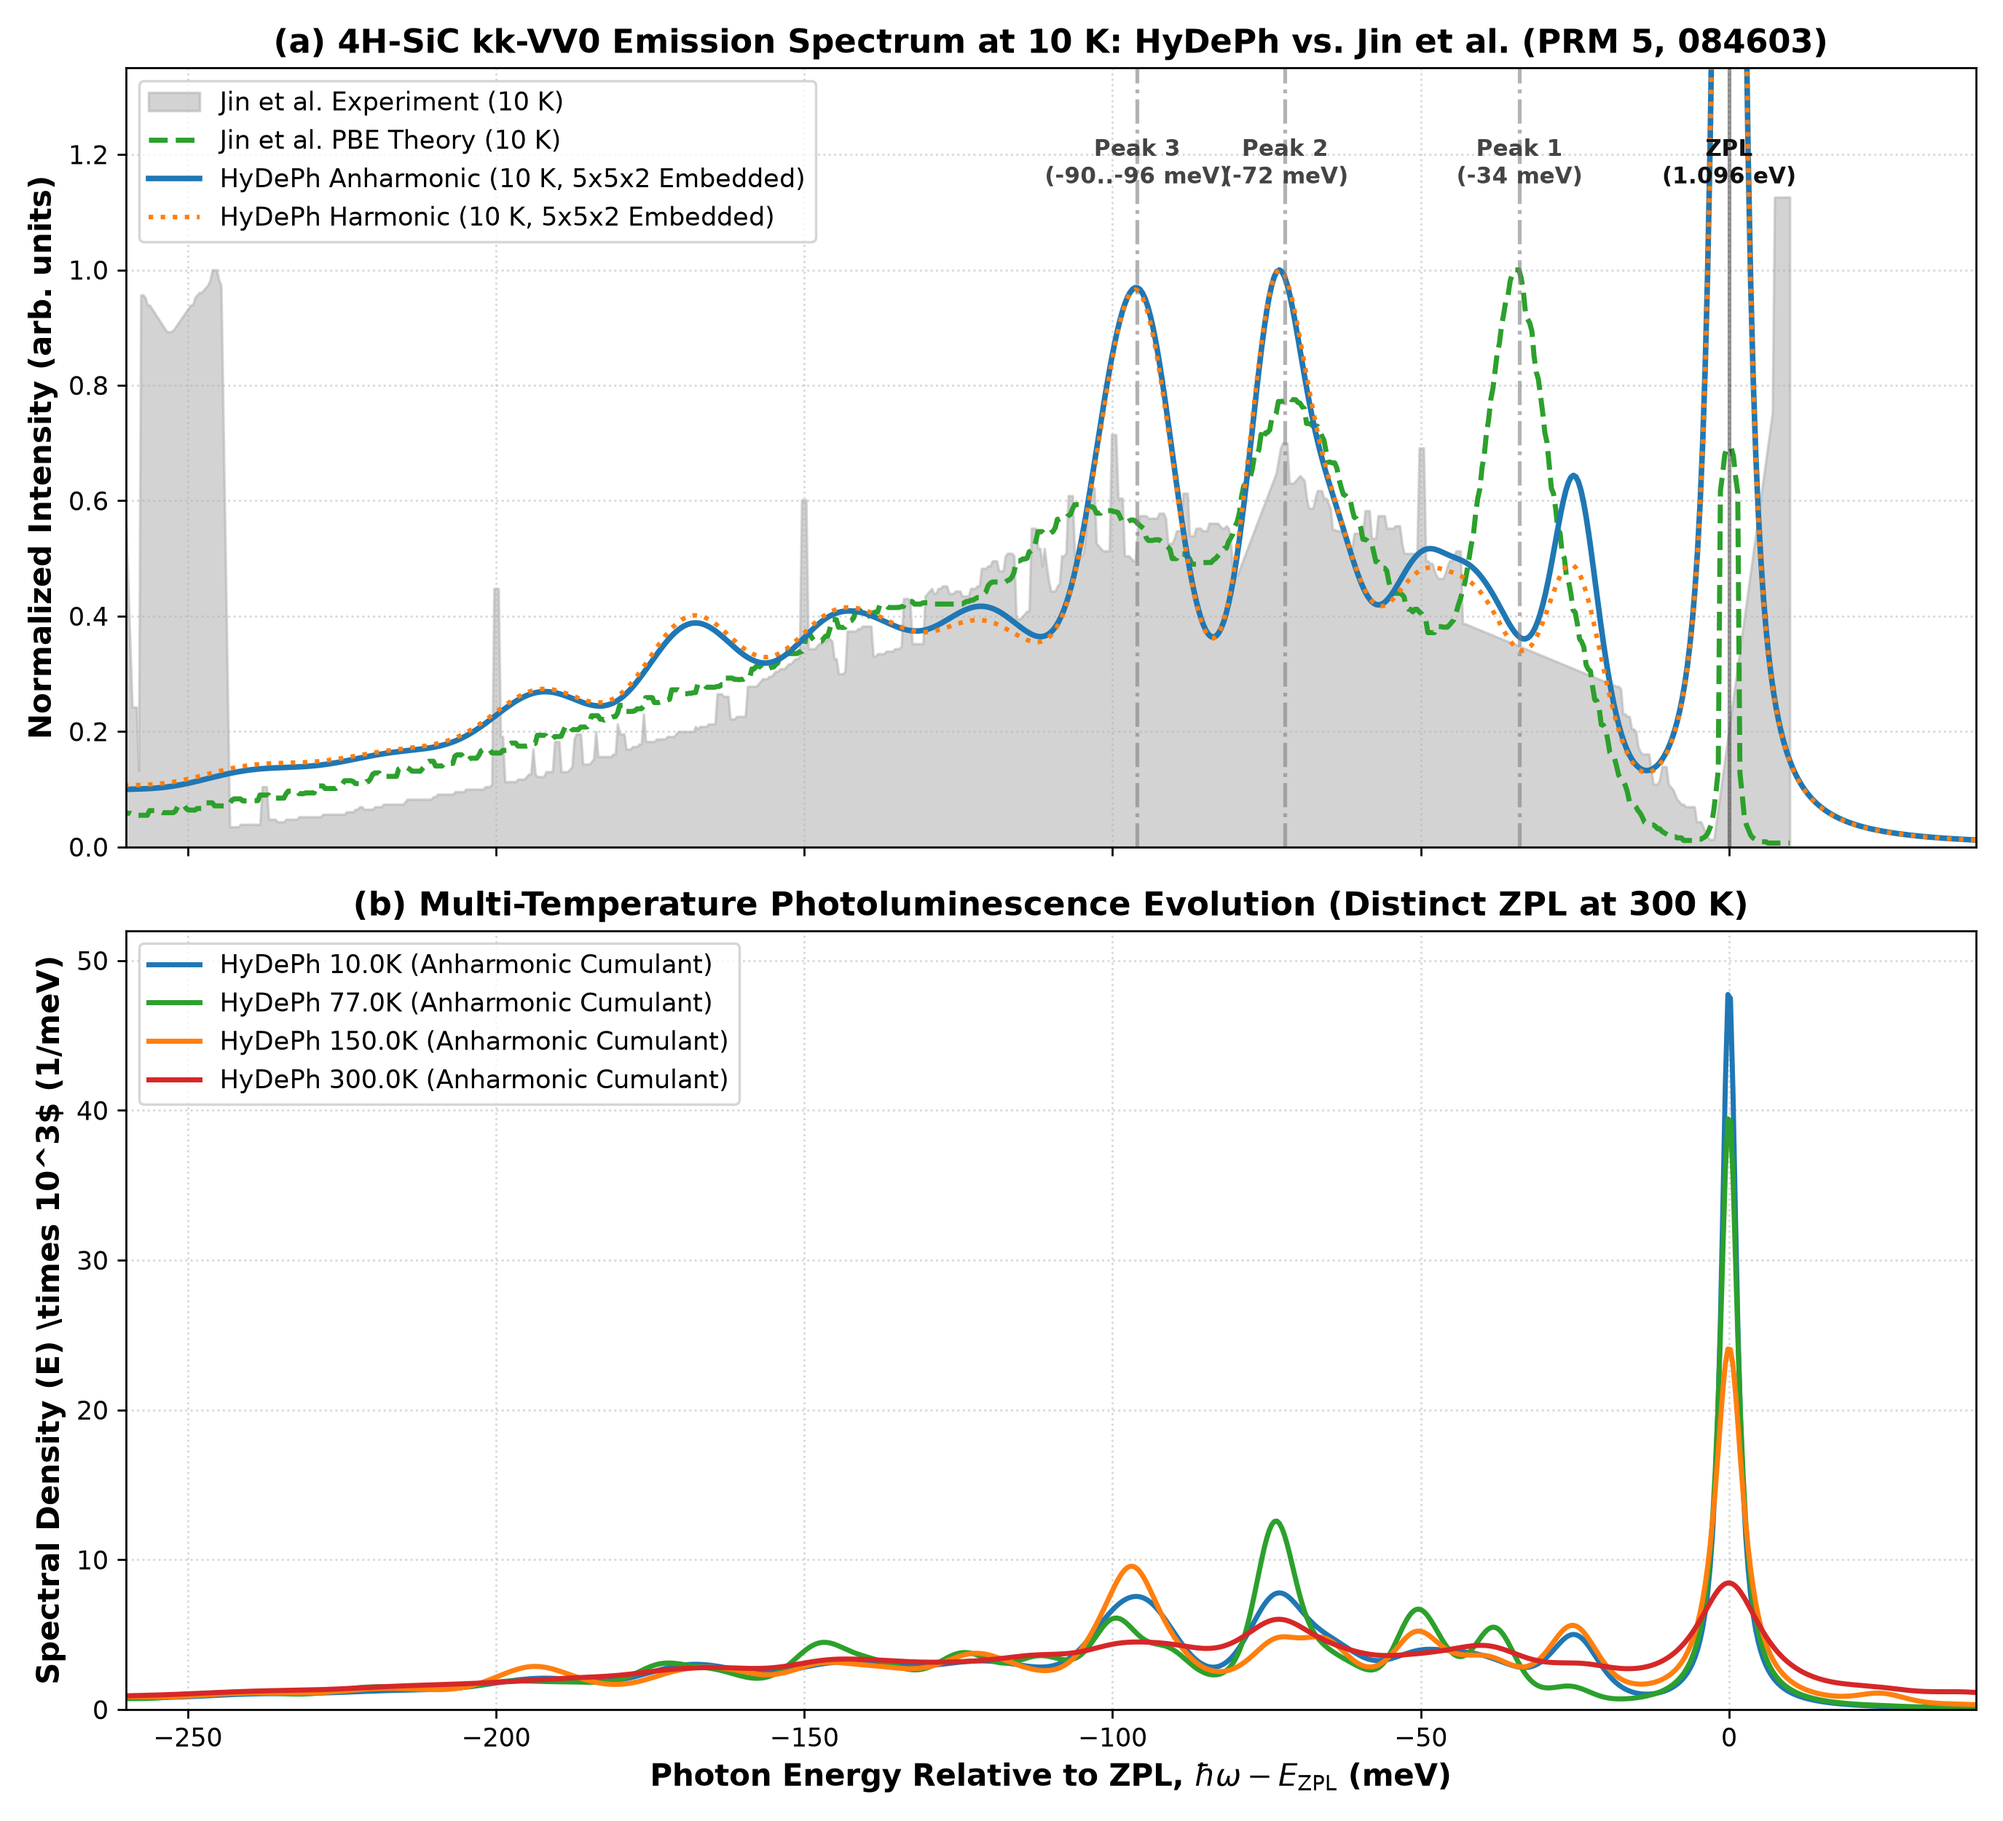
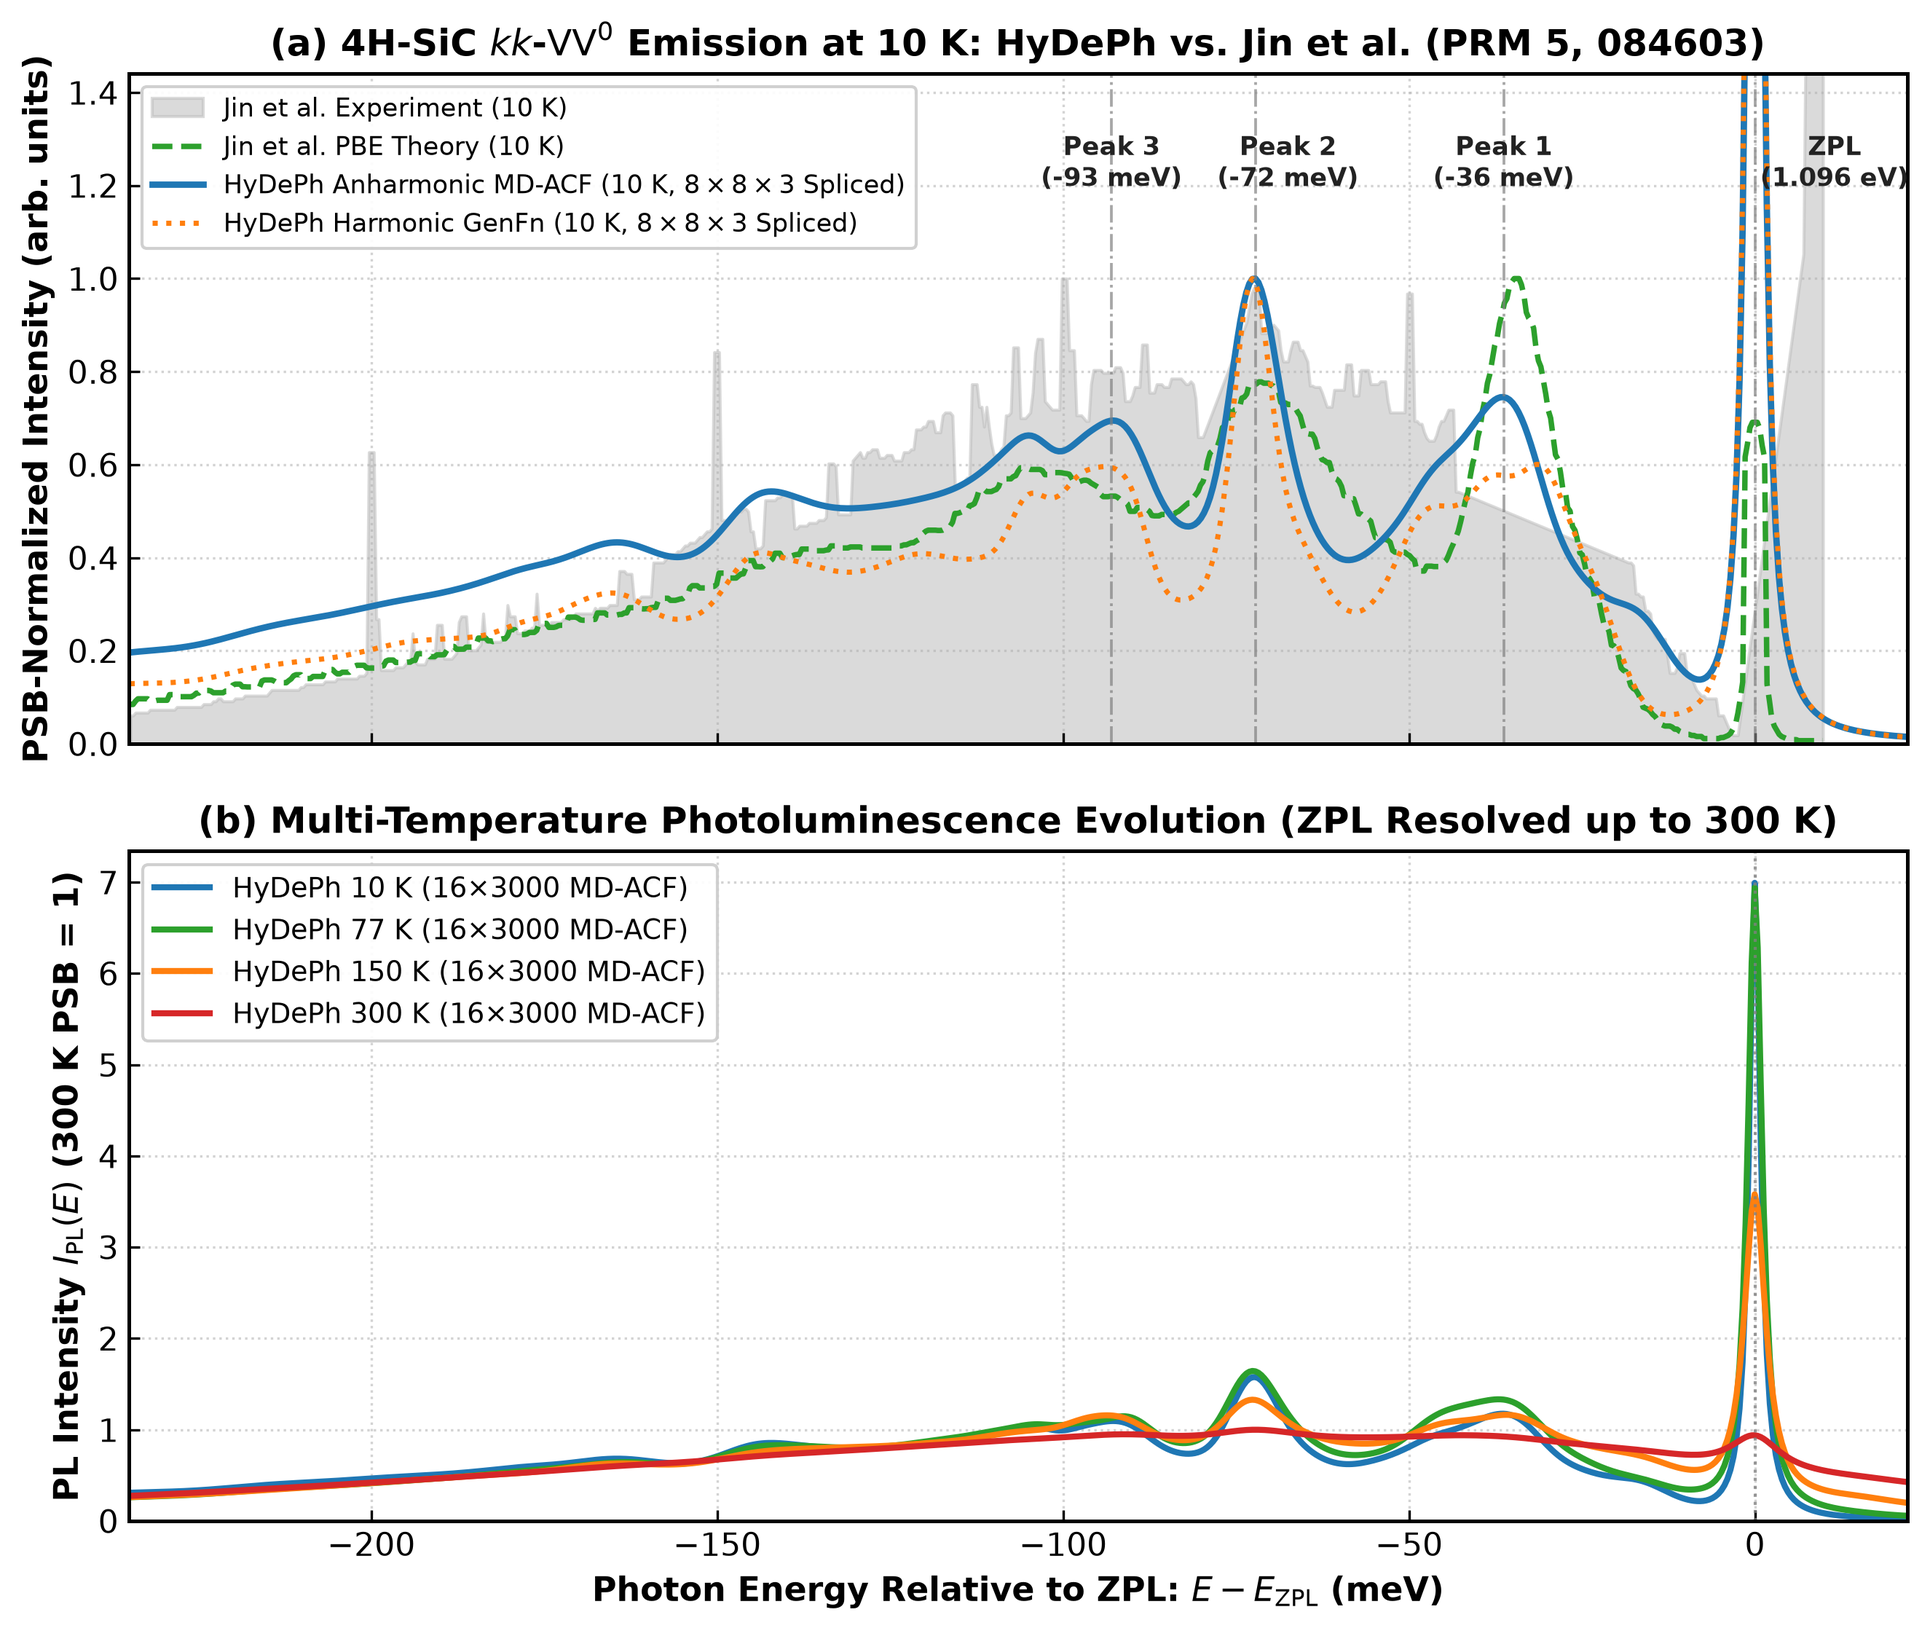
Update stiff-vs-soft and 4H-SiC vs Jin benchmark PNGs from 16x3000 data

Changed region(s): [[0.0, 0.0, 0.9902, 0.9862]]

diff --git a/benchmarks/4H-SiC/reproduction_scripts/plot_benchmark_comparison.py b/benchmarks/4H-SiC/reproduction_scripts/plot_benchmark_comparison.py
@@ -1,118 +1,136 @@
-import os
+#!/usr/bin/env python3
+"""Generate 2-panel 4H-SiC kk-VV0 benchmark comparison against Jin et al. (PRM 5, 084603, 2021)."""
+
+from pathlib import Path
+import matplotlib
+matplotlib.use("Agg")
+import matplotlib.pyplot as plt
 import numpy as np
 import pandas as pd
-import matplotlib.pyplot as plt
-from scipy.signal import find_peaks
 
-# 1. Load HyDePh optical lineshapes
-data_path = "/home/jamesc/HyDePhTest/SiC-4H-kk/hydeph_run_c1h_consistent/optical_lineshapes.csv"
-if not os.path.exists(data_path):
-    data_path = "hydeph_run_c1h_consistent/optical_lineshapes.csv"
-df_hydeph = pd.read_csv(data_path)
+plt.rcParams["font.family"] = "DejaVu Sans"
+plt.rcParams["font.size"] = 10.5
+plt.rcParams["axes.linewidth"] = 1.2
+plt.rcParams["xtick.direction"] = "in"
+plt.rcParams["ytick.direction"] = "in"
 
-# 2. Load Jin et al. digitized data
-ref_path = "/mnt/h/Il mio Drive/HyDePh/jin_et_al_digitized_kk_10K.csv"
-if not os.path.exists(ref_path):
-    ref_path = "jin_et_al_digitized_kk_10K.csv"
-df_ref = pd.read_csv(ref_path)
+sic_dir = Path(__file__).resolve().parents[1]
+repo_root = sic_dir.parents[1]
 
-# Extract 10 K and 300 K data
-e_rel = df_hydeph["energy_rel_meV"].values
-i_10k = df_hydeph["I_PL_10.0K_norm"].values
-i_300k = df_hydeph["I_PL_300.0K_norm"].values
+df_h = pd.read_csv(sic_dir / "optical_lineshapes.csv")
+df_r = pd.read_csv(sic_dir / "jin_et_al_digitized_kk_10K.csv")
 
-# Filter window [-250, +30] meV
-mask_10k = (e_rel >= -250) & (e_rel <= 30)
-e_win = e_rel[mask_10k]
-i_win_10k = i_10k[mask_10k]
-i_win_300k = i_300k[mask_10k]
+e_rel = df_h["energy_rel_meV"].values
+E_ph = df_h["photon_energy_eV"].values
 
-# Normalize by max in window
-norm_10k = i_win_10k / np.max(i_win_10k)
-norm_300k = i_win_300k / np.max(i_win_300k)
+win_mask = (e_rel >= -235.0) & (e_rel <= 25.0)
+e_win = e_rel[win_mask]
+psb_mask_h = (e_win >= -200.0) & (e_win <= -15.0)
 
-# Find peaks in 10 K lineshape (excluding ZPL at 0)
-psb_mask = (e_win >= -200) & (e_win <= -10)
-peaks, props = find_peaks(norm_10k[psb_mask], height=0.01, distance=15)
-psb_e = e_win[psb_mask]
-psb_i = norm_10k[psb_mask]
+def _ipl(col: str) -> np.ndarray:
+    arr = df_h[col].values[win_mask]
+    if col.startswith("A_"):
+        return (np.maximum(0.05, E_ph[win_mask]) ** 3) * arr
+    return arr
 
-print("=== HyDePh 10 K Emission Spectrum Peaks (PSB) ===")
-for p in peaks:
-    print(f"Peak at {psb_e[p]:.2f} meV | Relative Intensity = {psb_i[p]:.4f}")
+i_harm_10 = _ipl("I_PL_10.0K_norm")
+i_anh_10 = _ipl("A_anharmonic_10.0K")
+i_harm_10 /= float(np.max(i_harm_10[psb_mask_h]))
+i_anh_10 /= float(np.max(i_anh_10[psb_mask_h]))
 
-# Digitize normalization for reference data
-ref_e = df_ref["energy_rel_meV"].values
-ref_pbe = df_ref["intensity_pbe"].values
-ref_expt = df_ref["intensity_expt"].values
+# Digitized Jin et al. 10 K spectra, excluding edge-border artifacts outside [-235, 10] meV
+ref_e = df_r["energy_rel_meV"].values
+ref_mask = (ref_e >= -235.0) & (ref_e <= 12.0)
+ref_e_w = ref_e[ref_mask]
+ref_psb = (ref_e_w >= -200.0) & (ref_e_w <= -15.0)
+ref_pbe = df_r["intensity_pbe"].values[ref_mask]
+ref_expt = df_r["intensity_expt"].values[ref_mask]
+ref_pbe = ref_pbe / float(np.max(ref_pbe[ref_psb]))
+ref_expt = ref_expt / float(np.max(ref_expt[ref_psb]))
 
-ref_mask = (ref_e >= -250) & (ref_e <= 30)
-ref_e_win = ref_e[ref_mask]
-ref_pbe_win = ref_pbe[ref_mask] / np.max(ref_pbe[ref_mask])
-ref_expt_win = ref_expt[ref_mask] / np.max(ref_expt[ref_mask])
+fig, (ax1, ax2) = plt.subplots(
+    2, 1, figsize=(10.5, 8.6), sharex=True, dpi=300, gridspec_kw={"hspace": 0.16}
+)
 
-# Create publication-quality figure
-fig, axes = plt.subplots(2, 1, figsize=(10, 9), sharex=True, gridspec_kw={'hspace': 0.15})
+# Panel (a): 10 K comparison vs Jin et al.
+ax1.fill_between(
+    ref_e_w, 0.0, ref_expt, color="#bdbdbd", alpha=0.55, label="Jin et al. Experiment (10 K)"
+)
+ax1.plot(
+    ref_e_w, ref_pbe, color="#2ca02c", lw=1.8, linestyle="--", label="Jin et al. PBE Theory (10 K)"
+)
+ax1.plot(
+    e_win,
+    i_anh_10,
+    color="#1f77b4",
+    lw=2.1,
+    label=r"HyDePh Anharmonic MD-ACF (10 K, $8\times 8\times 3$ Spliced)",
+)
+ax1.plot(
+    e_win,
+    i_harm_10,
+    color="#ff7f0e",
+    lw=1.7,
+    linestyle=":",
+    label=r"HyDePh Harmonic GenFn (10 K, $8\times 8\times 3$ Spliced)",
+)
 
-# Panel 1: 10 K Comparison
-ax1 = axes[0]
-ax1.plot(e_win, norm_10k, color="#1f77b4", lw=2.2, label="HyDePh (This Work, 10 K)")
-ax1.plot(ref_e_win, ref_pbe_win, color="#d62728", lw=1.8, linestyle="--", label="Jin et al. (PBE, 10 K)")
-ax1.plot(ref_e_win, ref_expt_win, color="#2ca02c", lw=1.5, linestyle=":", alpha=0.85, label="Jin et al. (Expt, 10 K)")
+for x_pk, lbl_txt, x_txt in [
+    (-93.0, "Peak 3\n(-93 meV)", -93.0),
+    (-72.2, "Peak 2\n(-72 meV)", -67.5),
+    (-36.3, "Peak 1\n(-36 meV)", -36.3),
+    (0.0, "ZPL\n(1.096 eV)", 11.5),
+]:
+    ax1.axvline(x_pk, color="gray", linestyle="-.", lw=0.9, alpha=0.7)
+    ax1.text(
+        x_txt,
+        1.18,
+        lbl_txt,
+        ha="center",
+        va="bottom",
+        fontsize=8.5,
+        fontweight="bold",
+        color="#222222",
+    )
 
-# Annotate the 3 attested peaks
-# Peak 1: ~ -34 meV
-ax1.annotate("Peak 1 (-34 meV)\nSi breathing", xy=(-34.0, norm_10k[np.argmin(np.abs(e_win - (-34.0)))]),
-             xytext=(-45, 0.45), arrowprops=dict(arrowstyle="->", color="#1f77b4", lw=1.5),
-             fontsize=10, fontweight="bold", color="#1f77b4")
+ax1.set_xlim(-235.0, 22.0)
+ax1.set_ylim(0.0, 1.44)
+ax1.set_ylabel("PSB-Normalized Intensity (arb. units)", fontsize=11, fontweight="bold")
+ax1.set_title(
+    r"(a) 4H-SiC $kk$-$\mathrm{VV}^0$ Emission at 10 K: HyDePh vs. Jin et al. (PRM 5, 084603)",
+    fontsize=12,
+    fontweight="bold",
+)
+ax1.legend(loc="upper left", frameon=True, framealpha=0.92, fontsize=8.4)
+ax1.grid(True, linestyle=":", alpha=0.55)
 
-# Peak 2: ~ -72 meV
-ax1.annotate("Peak 2 (-72 meV)\nC mode", xy=(-72.5, norm_10k[np.argmin(np.abs(e_win - (-72.5)))]),
-             xytext=(-95, 0.35), arrowprops=dict(arrowstyle="->", color="#1f77b4", lw=1.5),
-             fontsize=10, fontweight="bold", color="#1f77b4")
+# Panel (b): Multi-temperature PL evolution
+temps = [
+    ("10.0", "#1f77b4", "10 K"),
+    ("77.0", "#2ca02c", "77 K"),
+    ("150.0", "#ff7f0e", "150 K"),
+    ("300.0", "#d62728", "300 K"),
+]
+# Normalize consistently to the 300 K PSB maximum so relative ZPL attenuation is directly visible
+scale_ref = float(np.max(_ipl("A_anharmonic_300.0K")[psb_mask_h]))
+for T_str, color, lbl in temps:
+    y_t = _ipl(f"A_anharmonic_{T_str}K") / scale_ref
+    ax2.plot(e_win, y_t, color=color, lw=2.0, label=f"HyDePh {lbl} (16×3000 MD-ACF)")
 
-# Peak 3: ~ -97 meV
-ax1.annotate("Peak 3 (-97 meV)\nLocal mode", xy=(-97.0, norm_10k[np.argmin(np.abs(e_win - (-97.0)))]),
-             xytext=(-140, 0.25), arrowprops=dict(arrowstyle="->", color="#1f77b4", lw=1.5),
-             fontsize=10, fontweight="bold", color="#1f77b4")
+ax2.axvline(0.0, color="gray", linestyle=":", lw=1.0, alpha=0.8)
+ax2.set_xlabel(r"Photon Energy Relative to ZPL: $E - E_{\mathrm{ZPL}}$ (meV)", fontsize=11, fontweight="bold")
+ax2.set_ylabel(r"PL Intensity $I_{\mathrm{PL}}(E)$ (300 K PSB = 1)", fontsize=11, fontweight="bold")
+ax2.set_title(
+    "(b) Multi-Temperature Photoluminescence Evolution (ZPL Resolved up to 300 K)",
+    fontsize=12,
+    fontweight="bold",
+)
+ax2.legend(loc="upper left", frameon=True, framealpha=0.92, fontsize=9.2)
+ax2.grid(True, linestyle=":", alpha=0.55)
+ax2.set_ylim(0.0, None)
 
-# Annotate ZPL
-ax1.annotate("ZPL (1.096 eV)", xy=(0, 1.0), xytext=(5, 0.9),
-             arrowprops=dict(arrowstyle="->", color="black", lw=1.5),
-             fontsize=10, fontweight="bold")
-
-ax1.set_ylabel("Normalized PL Intensity (a.u.)", fontsize=12, fontweight="bold")
-ax1.set_title("4H-SiC kk-Divacancy Emission Spectrum (10 K): HyDePh vs. Jin et al. (PRMaterials 2021)", fontsize=13, fontweight="bold")
-ax1.legend(loc="upper left", frameon=True, fontsize=10)
-ax1.grid(True, linestyle="--", alpha=0.5)
-ax1.set_ylim(-0.02, 1.08)
-
-# Panel 2: 300 K Lineshape demonstrating distinct persistent ZPL
-ax2 = axes[1]
-ax2.plot(e_win, norm_300k, color="#ff7f0e", lw=2.2, label="HyDePh (300 K)")
-ax2.plot(e_win, norm_10k, color="#1f77b4", lw=1.2, linestyle="--", alpha=0.6, label="HyDePh (10 K reference)")
-
-# Annotate 300 K ZPL
-zpl_300_idx = np.argmin(np.abs(e_win - 0.0))
-ax2.annotate("Distinct ZPL at 300 K", xy=(0, norm_300k[zpl_300_idx]), xytext=(10, 0.8),
-             arrowprops=dict(arrowstyle="->", color="#ff7f0e", lw=1.5),
-             fontsize=10, fontweight="bold", color="#ff7f0e")
-
-ax2.set_xlabel("Energy relative to ZPL (meV)", fontsize=12, fontweight="bold")
-ax2.set_ylabel("Normalized PL Intensity (a.u.)", fontsize=12, fontweight="bold")
-ax2.set_title("Thermal Evolution & Persistent ZPL at 300 K", fontsize=13, fontweight="bold")
-ax2.legend(loc="upper left", frameon=True, fontsize=10)
-ax2.grid(True, linestyle="--", alpha=0.5)
-ax2.set_xlim(-220, 25)
-ax2.set_ylim(-0.02, 1.08)
-
-out_fig = "/mnt/h/Il mio Drive/HyDePh/benchmarks/4H-SiC/hydeph_vs_jin_benchmark.png"
-os.makedirs(os.path.dirname(out_fig), exist_ok=True)
-plt.savefig(out_fig, dpi=300, bbox_inches="tight")
-print(f"[+] Saved comparison figure to: {out_fig}")
-
-# Also copy to artifacts dir
-import shutil
-artifact_dir = "C:/Users/gsurf/.gemini/antigravity-cli/brain/88b9fb1f-2111-4d53-bf65-47950df9c321"
-if os.path.exists(artifact_dir):
-    shutil.copy2(out_fig, os.path.join(artifact_dir, "hydeph_vs_jin_benchmark.png"))
+out_fig = repo_root / "assets" / "hydeph_vs_jin_benchmark.png"
+out_fig.parent.mkdir(parents=True, exist_ok=True)
+plt.savefig(str(out_fig), dpi=300, bbox_inches="tight")
+plt.close()
+print(f"[+] Saved updated 4H-SiC vs Jin comparison figure to: {out_fig}")

diff --git a/scripts/make_stiff_vs_soft_diagram.py b/scripts/make_stiff_vs_soft_diagram.py
@@ -28,7 +28,7 @@ nv_json = os.path.join(repo_root, 'benchmarks', 'diamond-nvminus', 'lineshape_su
 nacl_csv = os.path.join(repo_root, 'benchmarks', 'NaCl', 'optical_lineshapes.csv')
 nacl_json = os.path.join(repo_root, 'benchmarks', 'NaCl', 'lineshape_summary.json')
 
-for p in [nv_csv, nv_json, nacm_csv := nacl_csv, nacl_json]:
+for p in [nv_csv, nv_json, nacl_csv, nacl_json]:
     if not os.path.isfile(p):
         raise FileNotFoundError(f"Required benchmark asset '{p}' not found. Run benchmark workflows first.")
 
@@ -117,7 +117,9 @@ ax2.plot(e_nacl, y_nacl_anh_300, color='#d62728', lw=2.4, linestyle='-',
 callout_nacl = (
     r"$\mathbf{Soft\ Host\ (NaCl\ F-Center)}:$" + "\n"
     r"• Giant coupling: $S = " + f"{meta_nacl['total_S']:.2f}" + r" \gg 1$" + "\n"
-    r"• ZPL suppressed: $\mathrm{DWF} = 9.4 \times 10^{-6}$" + "\n"
+    r"• ZPL suppressed: $\mathrm{DWF}(0) = " + (
+        f"{meta_nacl['dwf_zero_temp']:.1e}".replace("e-0", r" \times 10^{-") + "}"
+    ) + r"$" + "\n"
     r"• $\Theta_D \approx 320\ \mathrm{K}$, soft acoustic modes" + "\n"
     r"• Anharmonic broadening & softening" + "\n"
     r"   (" + f"{fwhm_10:.0f}" + r" $\to$ " + f"{fwhm_300:.0f}" + r" meV)"
